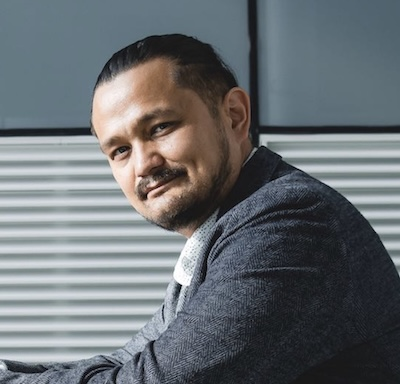
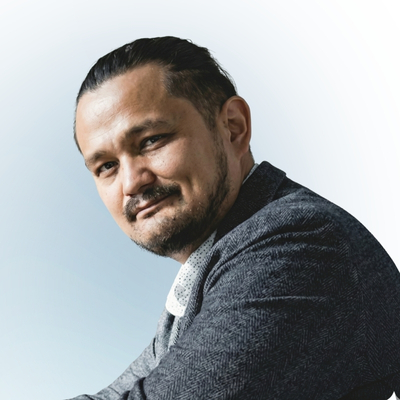
Add all team photos and fix Zarina surname
- Added 8 team member photos
- Updated team.html (EN) with all photos
- Updated ru/team.html (RU) with all photos
- Fixed surname: Satubaldinam → Satubaldina

🤖 Generated with [Claude Code](https://claude.com/claude-code)

diff --git a/ru/team.html b/ru/team.html
@@ -71,7 +71,7 @@
 
         <!-- Zarina Satubaldinam -->
         <div class="card team-card">
-          <div class="team-avatar">👤</div>
+          <img src="../images/zarina-satubaldina.jpg" alt="Зарина Сатубалдина" class="team-photo">
           <h3 class="team-name">Зарина Сатубалдина</h3>
           <p class="team-role">Основатель портфельной компании (NMT)</p>
           <p class="team-bio">
@@ -83,7 +83,7 @@
 
         <!-- Saida Tleulenova -->
         <div class="card team-card">
-          <div class="team-avatar">👤</div>
+          <img src="../images/Saida-Tleulenova.jpg" alt="Саида Тлеуленова" class="team-photo">
           <h3 class="team-name">Саида Тлеуленова</h3>
           <p class="team-role">Финансы и операции</p>
           <p class="team-bio">
@@ -107,7 +107,7 @@
       <div class="team-grid">
         <!-- Sergey Makarov -->
         <div class="card team-card">
-          <div class="team-avatar">👤</div>
+          <img src="../images/Sergey-Makarov.jpg" alt="Сергей Макаров" class="team-photo">
           <h3 class="team-name">Сергей Макаров</h3>
           <p class="team-role">Эксперт по венчурам и инновациям</p>
           <p class="team-bio">
@@ -120,7 +120,7 @@
 
         <!-- Kendrick White -->
         <div class="card team-card">
-          <div class="team-avatar">👤</div>
+          <img src="../images/Kendrick-White.jpg" alt="Кендрик Уайт" class="team-photo">
           <h3 class="team-name">Кендрик Уайт</h3>
           <p class="team-role">Эксперт по коммерциализации технологий</p>
           <p class="team-bio">
@@ -133,7 +133,7 @@
 
         <!-- Ekaterina Runova -->
         <div class="card team-card">
-          <div class="team-avatar">👤</div>
+          <img src="../images/Ekaterina-Runova.jpg" alt="Екатерина Рунова" class="team-photo">
           <h3 class="team-name">Екатерина Рунова</h3>
           <p class="team-role">Специалист по IP и трансферу технологий</p>
           <p class="team-bio">
@@ -146,7 +146,7 @@
 
         <!-- Abylay Akhymbekov -->
         <div class="card team-card">
-          <div class="team-avatar">👤</div>
+          <img src="../images/Abylay-Akhymbekov.jpg" alt="Аблай Ахымбеков" class="team-photo">
           <h3 class="team-name">Аблай Ахымбеков</h3>
           <p class="team-role">Технологический брокер</p>
           <p class="team-bio">
@@ -160,7 +160,7 @@
 
         <!-- Evgeny Brooks Evdokimov -->
         <div class="card team-card">
-          <div class="team-avatar">👤</div>
+          <img src="../images/Evgeny-Brooks.jpg" alt="Евгений «Brooks» Евдокимов" class="team-photo">
           <h3 class="team-name">Евгений «Brooks» Евдокимов</h3>
           <p class="team-role">Эксперт по венчурному капиталу</p>
           <p class="team-bio">

diff --git a/team.html b/team.html
@@ -69,10 +69,10 @@
           </p>
         </div>
 
-        <!-- Zarina Satubaldinam -->
+        <!-- Zarina Satubaldina -->
         <div class="card team-card">
-          <div class="team-avatar">👤</div>
-          <h3 class="team-name">Zarina Satubaldinam</h3>
+          <img src="images/zarina-satubaldina.jpg" alt="Zarina Satubaldina" class="team-photo">
+          <h3 class="team-name">Zarina Satubaldina</h3>
           <p class="team-role">Portfolio Founder (NMT)</p>
           <p class="team-bio">
             PhD in Psychology, Business Psychologist, Neurotechnologist.
@@ -83,7 +83,7 @@
 
         <!-- Saida Tleulenova -->
         <div class="card team-card">
-          <div class="team-avatar">👤</div>
+          <img src="images/Saida-Tleulenova.jpg" alt="Saida Tleulenova" class="team-photo">
           <h3 class="team-name">Saida Tleulenova</h3>
           <p class="team-role">Finance & Operations</p>
           <p class="team-bio">
@@ -107,7 +107,7 @@
       <div class="team-grid">
         <!-- Sergey Makarov -->
         <div class="card team-card">
-          <div class="team-avatar">👤</div>
+          <img src="images/Sergey-Makarov.jpg" alt="Sergey Makarov" class="team-photo">
           <h3 class="team-name">Sergey Makarov</h3>
           <p class="team-role">Venture & Innovation Expert</p>
           <p class="team-bio">
@@ -120,7 +120,7 @@
 
         <!-- Kendrick White -->
         <div class="card team-card">
-          <div class="team-avatar">👤</div>
+          <img src="images/Kendrick-White.jpg" alt="Kendrick White" class="team-photo">
           <h3 class="team-name">Kendrick White</h3>
           <p class="team-role">Tech Commercialization Expert</p>
           <p class="team-bio">
@@ -133,7 +133,7 @@
 
         <!-- Ekaterina Runova -->
         <div class="card team-card">
-          <div class="team-avatar">👤</div>
+          <img src="images/Ekaterina-Runova.jpg" alt="Ekaterina Runova" class="team-photo">
           <h3 class="team-name">Ekaterina Runova</h3>
           <p class="team-role">IP & Tech Transfer Specialist</p>
           <p class="team-bio">
@@ -146,7 +146,7 @@
 
         <!-- Abylay Akhymbekov -->
         <div class="card team-card">
-          <div class="team-avatar">👤</div>
+          <img src="images/Abylay-Akhymbekov.jpg" alt="Abylay Akhymbekov" class="team-photo">
           <h3 class="team-name">Abylay Akhymbekov</h3>
           <p class="team-role">Technology Broker</p>
           <p class="team-bio">
@@ -160,7 +160,7 @@
 
         <!-- Evgeny Brooks Evdokimov -->
         <div class="card team-card">
-          <div class="team-avatar">👤</div>
+          <img src="images/Evgeny-Brooks.jpg" alt="Evgeny Brooks Evdokimov" class="team-photo">
           <h3 class="team-name">Evgeny "Brooks" Evdokimov</h3>
           <p class="team-role">Venture Capital Expert</p>
           <p class="team-bio">
